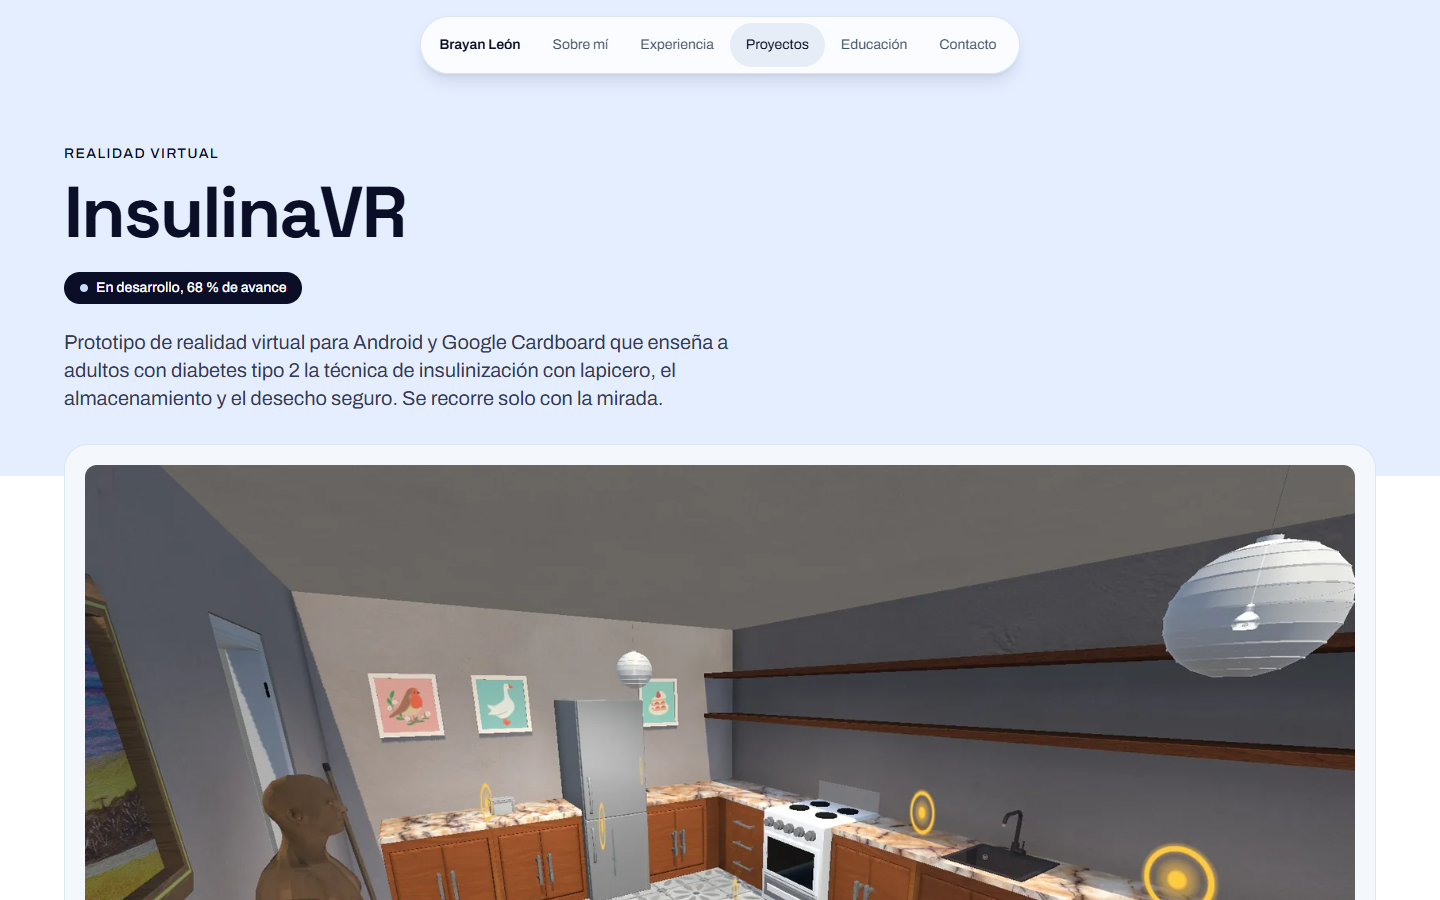
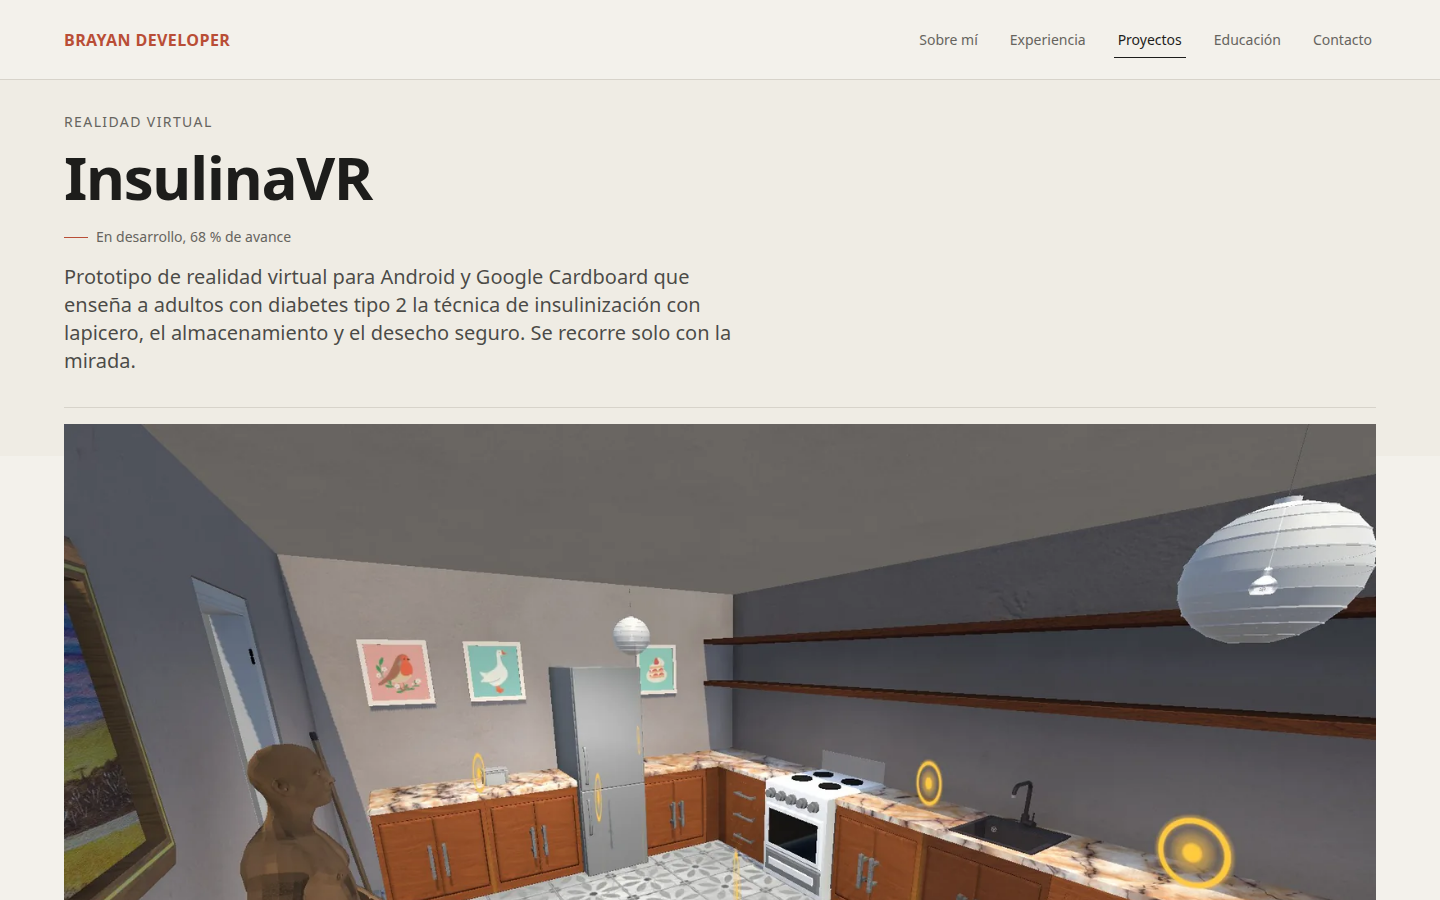
Actualización del README y textos

diff --git a/src/data/about.ts b/src/data/about.ts
@@ -17,7 +17,7 @@ export const aboutSteps: AboutStep[] = [
     points: [
       'Movilidad académica en la UTTT de México durante 2026.',
       'Técnico en Sistemas, SENA.',
-      'Inglés B1 (intermedio), con certificado EF SET 60/100.',
+      'Inglés B2 (intermedio), con certificado EF SET 60/100.',
       'Credenciales de AWS Academy, MongoDB University, Oracle Academy y Cisco Networking Academy.',
     ],
   },

diff --git a/src/features/projects/Projects.tsx b/src/features/projects/Projects.tsx
@@ -14,7 +14,7 @@ export function Projects() {
         <SectionHeading
           id="titulo-proyectos"
           eyebrow="Proyectos"
-          title="Cosas que he construido"
+          title="Proyectos que he realizado"
           action={{ label: 'Ver todos', to: '/proyectos' }}
         />
         <ul className="grid grid-cols-1 gap-x-8 gap-y-12 md:grid-cols-2">

diff --git a/README.md b/README.md
@@ -5,60 +5,78 @@
 ![Vite](https://img.shields.io/badge/Vite-8-646CFF?logo=vite&logoColor=white)
 ![Tailwind CSS](https://img.shields.io/badge/Tailwind_CSS-4-06B6D4?logo=tailwindcss&logoColor=white)
 
-Portafolio profesional de un estudiante de Ingeniería de Sistemas (UNAB) que busca prácticas como desarrollador Backend o Fullstack en 2027-1. Reúne experiencia, proyectos con su detalle técnico, formación y certificados, en un sitio claro, rápido y accesible.
+Portafolio de **Brayan Steven León Martinez**, estudiante de Ingeniería de Sistemas en la Universidad Autónoma de Bucaramanga (UNAB), desarrollador Backend y Fullstack que busca prácticas profesionales para 2027-1. Presenta experiencia, capacidades técnicas, formación y 12 proyectos con sus respectivos casos de estudio.
 
-![Página de inicio](docs/inicio.png)
+## Vista previa
 
-| Proyectos | Proyecto de grado | Móvil |
-|---|---|---|
-| ![Proyectos](docs/proyectos.png) | ![InsulinaVR](docs/insulinavr.png) | ![Vista móvil](docs/movil.png) |
+| Inicio — escritorio (1440 × 900) | Proyectos — escritorio (1440 × 900) |
+|---|---|
+| ![Inicio actual del portafolio en escritorio](docs/inicio.png) | ![Listado actual de proyectos en escritorio](docs/proyectos.png) |
+
+| InsulinaVR — escritorio (1440 × 900) | Inicio — móvil (390 × 844) |
+|---|---|
+| ![Caso de estudio actual de InsulinaVR](docs/insulinavr.png) | ![Inicio actual del portafolio en móvil](docs/movil.png) |
 
 ## Qué incluye
 
-- **Inicio** con presentación, datos clave, descarga del CV y enlaces a GitHub y LinkedIn.
-- **Experiencia** en formato de línea de tiempo, con funciones, entorno técnico y referencia de la empresa.
-- **Proyectos** con filtros por categoría y tecnología guardados en la URL, y una página de detalle por proyecto con galería de capturas, decisiones técnicas y resultados.
-- **Educación** con formación académica y certificados filtrables por área y emisor.
-- **Contacto** con botón para copiar el correo y enlaces a las redes.
-- Carga inicial animada, transiciones entre páginas, barra de progreso de lectura y menú móvil accesible.
+- **Inicio editorial** con presentación, estadísticas, capacidades, proyectos destacados, formación y contacto.
+- **Experiencia** en filas editoriales con fechas, responsabilidades, tecnologías y referencias laborales.
+- **12 proyectos**, cuatro destacados en Inicio, con filtros compartibles por categoría y tecnología.
+- **Casos de estudio** con narrativa por secciones, datos del proyecto, stack, enlaces y navegación al proyecto siguiente.
+- **Galerías** con imágenes reales cuando están disponibles; las ideas visuales pendientes se identifican explícitamente como propuestas. El carrusel incluye controles de teclado y visor ampliado.
+- **Educación** con formación académica y certificados filtrables.
+- **Contacto** con opción para copiar el correo, WhatsApp, descarga del CV y enlaces sociales.
+- Navegación móvil, foco visible y movimiento que respeta `prefers-reduced-motion`.
+
+## Rutas
+
+| Ruta | Contenido |
+|---|---|
+| `/` | Portafolio y secciones principales |
+| `/experiencia` | Experiencia laboral |
+| `/proyectos` | Archivo completo con filtros |
+| `/proyectos/:slug` | Caso de estudio de cada proyecto |
+| `/educacion` | Formación y certificados |
 
 ## Tecnologías
 
 | Área | Herramientas |
 |---|---|
-| Interfaz | React 19, TypeScript, React Router 7 |
-| Estilos | Tailwind CSS v4 con tokens propios, Space Grotesk y Archivo |
-| Animación | motion y GSAP (componentes de React Bits y estilo Aceternity UI) |
+| Interfaz | React 19, TypeScript 6, React Router 7 |
+| Estilos y tipografía | Tailwind CSS 4; Bebas Neue, Outfit, DM Sans e IBM Plex Mono |
+| Movimiento | Motion y GSAP |
 | Iconos | lucide-react y simple-icons |
-| Herramientas | Vite 8, oxlint, tsx |
-| Métricas | Vercel Web Analytics y Speed Insights |
+| Desarrollo y build | Vite 8, tsx y oxlint |
+| Analítica | Vercel Web Analytics y Speed Insights |
 | Despliegue | Vercel |
 
 ## Estructura
 
 ```text
 src/
-├── app/          App, router y rutas con carga diferida
+├── app/          Aplicación y rutas con carga diferida
 ├── components/
-│   ├── layout/   Barra flotante, menú móvil, footer, secciones
-│   ├── ui/       Loader, Stepper, Timeline, filtros, Reveal, Marquee
-│   └── bits/     Componentes de React Bits (instalados con shadcn CLI)
-├── features/     Un módulo por área: home, about, experience, projects, education, stack, contact
-├── pages/        Una página por ruta; solo componen features
-├── data/         Todo el contenido editable (ver más abajo)
-├── hooks/        usePageMeta, useActiveSection
-├── lib/          Utilidades (fechas, colecciones, intro)
-├── styles/       CSS global y tokens de diseño
+│   ├── layout/   Navegación, contenedores y pie de página
+│   ├── ui/       Controles y componentes reutilizables
+│   └── bits/     Componentes visuales compartidos
+├── features/     home, about, experience, projects, education, stack y contact
+├── pages/        Composición de las rutas
+├── data/         Contenido editable del portafolio
+├── hooks/        Hooks de metadatos y navegación
+├── styles/       Estilos globales y tokens
 └── types/        Tipos compartidos
-public/           CV, íconos, imagen para compartir e imágenes de proyectos
-scripts/          Generador de SEO que se ejecuta después del build
-design-system/    Guía de color, tipografía y reglas de diseño
-docs/             Capturas usadas en este README
+public/
+├── projects/     Imágenes de los proyectos
+├── assets/       Recursos del sitio
+└── cv-brayan-leon.pdf
+scripts/          Generación de HTML y metadatos SEO
+docs/             Capturas actuales incluidas en este README
+DESIGN.md         Contrato visual vigente
 ```
 
 ## Primeros pasos
 
-Requisitos: Node 22.12 o superior y npm.
+Requisitos: Node.js 22.12 o superior y npm.
 
 ```bash
 npm install
@@ -68,73 +86,46 @@ npm run dev
 | Comando | Qué hace |
 |---|---|
 | `npm run dev` | Servidor de desarrollo en `http://localhost:5173` |
-| `npm run build` | Comprueba tipos, compila y genera el SEO de cada ruta |
-| `npm run preview` | Sirve el build de producción en local |
+| `npm run build` | Comprueba tipos, compila y genera las páginas y metadatos SEO |
+| `npm run preview` | Sirve localmente el build de producción |
 | `npm run lint` | Revisa el código con oxlint |
 
 ## Cómo editar el contenido
 
-Agregar algo nuevo es editar un archivo de datos; no hace falta tocar componentes.
+El contenido del portafolio vive en archivos de datos:
 
 | Quiero cambiar | Archivo |
 |---|---|
 | Nombre, redes, correo, CV y menú | `src/data/site.ts` |
-| Proyectos y sus capturas | `src/data/projects.ts` y `public/projects/<slug>/` |
+| Proyectos, casos de estudio y galerías | `src/data/projects.ts` y `public/projects/<slug>/` |
 | Experiencia laboral | `src/data/experience.ts` |
 | Estudios | `src/data/education.ts` |
 | Certificados | `src/data/certifications.ts` |
-| Stack técnico | `src/data/stack.ts` |
-| Textos de «Sobre mí» | `src/data/about.ts` |
-| Título y descripción de las páginas fijas | `src/data/seo.ts` |
+| Capacidades y herramientas | `src/data/stack.ts` |
+| Presentación y recorrido | `src/data/about.ts` |
+| Títulos y descripciones de las páginas | `src/data/seo.ts` |
 
-Para sumar un proyecto, agrega un objeto a `projects` con `slug`, `title`, `category`, `description`, `stack` y, si tiene capturas, `image` y `gallery`. Con `featured: true` aparece también en la página de inicio. Las rutas, los filtros, el sitemap y el SEO de su página se generan solos.
+Para sumar un proyecto, agrega un objeto a `projects` con `slug`, `title`, `category`, `description` y `stack`. También puedes añadir secciones narrativas, enlaces, una portada y una galería. Con `featured: true` aparece en Inicio. Las rutas, los filtros, el sitemap y los metadatos se generan desde esos datos.
 
-## Diseño
+## Diseño y accesibilidad
 
-Paleta «azul hielo»: blanco, un solo pastel azul para las tarjetas y cobalto solo para las acciones. Las categorías se distinguen con texto, no con color. Los tokens están en `src/styles/index.css` y las reglas completas en [`design-system/portafolio/MASTER.md`](design-system/portafolio/MASTER.md).
+La dirección visual es editorial neo-minimalista: papel `#F3F1EB`, superficie `#FAF9F5`, tinta `#1D1D1B` y terracota `#B94E36`. Bebas Neue forma el masthead; Outfit se usa en titulares, DM Sans en texto e IBM Plex Mono en etiquetas técnicas. Los tokens están en `src/styles/index.css` y las reglas vigentes en [`DESIGN.md`](DESIGN.md).
 
-Accesibilidad: foco visible, contraste mínimo 4.5:1, objetivos táctiles de 44 px, respeto de `prefers-reduced-motion` y navegación completa con teclado.
+La interfaz usa estructura semántica, foco visible, navegación por teclado y respeta `prefers-reduced-motion`.
 
 ## SEO
 
-`npm run build` ejecuta `tsc`, `vite build` y `scripts/generate-seo.mjs`. El script:
+`npm run build` ejecuta `tsc`, `vite build` y `scripts/generate-seo.mjs`. El generador crea HTML con título, descripción, canonical, Open Graph, Twitter y JSON-LD para cada ruta, además de `sitemap.xml` y `robots.txt`. Las páginas de detalle se construyen desde los datos de los proyectos.
 
-- crea un `index.html` por ruta con título, descripción, canonical, Open Graph, Twitter y datos estructurados (JSON-LD) propios, para que LinkedIn, WhatsApp y X muestren la vista previa correcta aunque no ejecuten JavaScript;
-- genera `sitemap.xml` y `robots.txt` con la dirección real del sitio.
-
-La dirección sale de la variable `SITE_URL`. Si no existe, usa el dominio definitivo `https://brayandeveloper.online`, definido en el script. Las vistas previas de Vercel también apuntan a ese dominio como canonical, así Google solo indexa la dirección propia. El PDF del CV se sirve con `noindex` para que no aparezca en buscadores.
+La dirección canónica sale de `SITE_URL`; si no se define, se usa `https://brayandeveloper.online`. El PDF del CV recibe `X-Robots-Tag: noindex, noarchive`. La configuración de Vercel está en `vercel.json`.
 
 ## Despliegue en Vercel
 
-1. Importa el repositorio en Vercel. Detecta Vite: comando `npm run build`, carpeta de salida `dist`.
-2. En **Settings → Deployment Protection**, deja la protección solo para *Preview*. Si producción exige iniciar sesión, Google no puede indexar el sitio.
-3. Opcional: define `SITE_URL` si algún día cambias de dominio (también se puede editar `DEFAULT_URL` en `scripts/generate-seo.mjs`).
-4. Después del primer despliegue:
-   - abre `/sitemap.xml` y `/robots.txt` para comprobar la dirección;
-   - da de alta el sitio en Google Search Console y envía el sitemap;
-   - prueba la vista previa al compartir un enlace en LinkedIn;
-   - pon la dirección en tu perfil de LinkedIn y de GitHub.
+Vercel compila con `npm run build` y sirve `dist`. `vercel.json` conserva las rutas de la SPA, los headers de seguridad y las reglas de caché. Después del despliegue se pueden comprobar `/sitemap.xml`, `/robots.txt` y las vistas previas sociales de las rutas de proyecto.
 
-## Métricas
+## Analítica
 
-El sitio usa [Vercel Web Analytics](https://vercel.com/docs/analytics) y [Speed Insights](https://vercel.com/docs/speed-insights) para saber cuánta gente entra y qué tan rápido carga. Miden visitas, páginas más vistas, país, dispositivo, origen del tráfico y velocidad real, sin cookies y sin datos personales. Cada ruta cuenta como una visita propia. En local los componentes no se montan, así que las pruebas no ensucian las estadísticas.
-
-Para activarlas, después del primer despliegue:
-
-1. En el proyecto de Vercel, entra a la pestaña **Analytics** y pulsa **Enable**.
-2. Haz lo mismo en la pestaña **Speed Insights**.
-3. Vuelve a desplegar si Vercel lo pide. El script solo se sirve cuando la función está activada.
-4. Los primeros datos aparecen a los pocos minutos de recibir visitas. Los planes gratuitos tienen límites mensuales; conviene revisarlos en el panel.
-
-## Rendimiento
-
-Medido con Lighthouse en móvil sobre el build de producción:
-
-| Página | Rendimiento | Accesibilidad | Buenas prácticas | SEO |
-|---|---|---|---|---|
-| Inicio | 85 | 100 | 100 | 100 |
-| Proyectos | 82 | 98 | 100 | 100 |
-| Proyecto de grado | 81 | 100 | 100 | 100 |
+El sitio integra [Vercel Web Analytics](https://vercel.com/docs/analytics) y [Speed Insights](https://vercel.com/docs/speed-insights). En local no se montan los componentes de medición para no mezclar pruebas con visitas reales. Para ver datos de producción, activa ambas herramientas en el proyecto de Vercel.
 
 ## Autor
 
